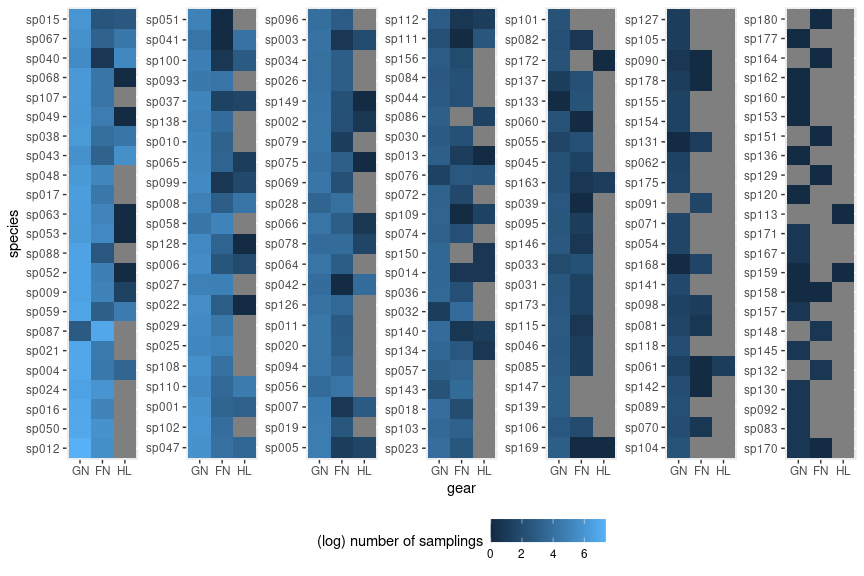
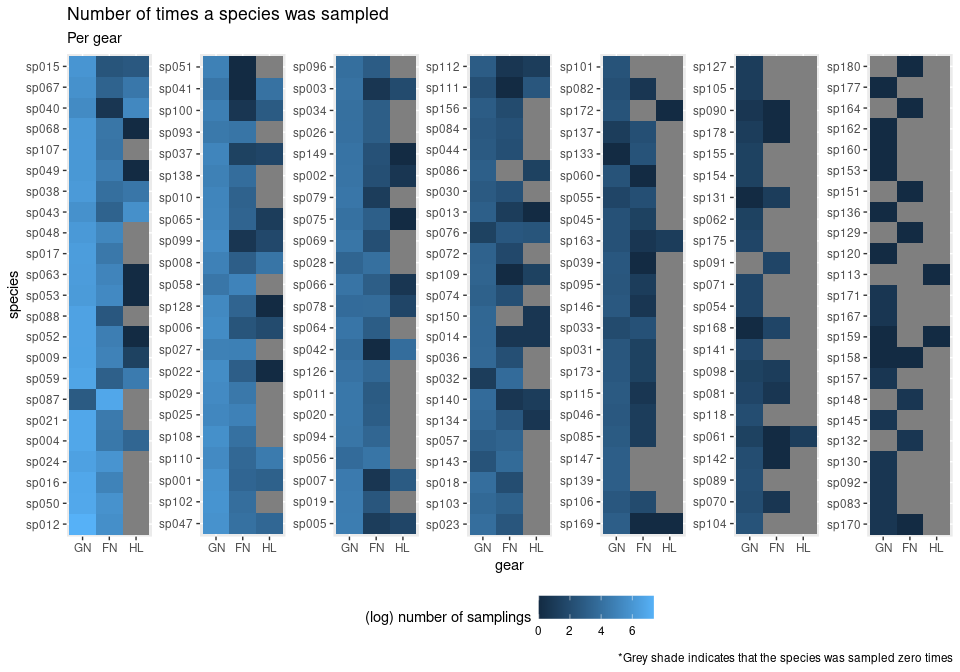
Finish off sampling bias analysis

diff --git a/report/sampling-bias.md b/report/sampling-bias.md
@@ -29,7 +29,10 @@ catch_info %>%
   geom_tile(aes(y = species, x = gear, fill = log(n))) +
   facet_wrap("group",nrow = 1, scales = "free_y") +
   theme(legend.position = "bottom", strip.text = element_blank()) +
-  labs(fill = "(log) number of samplings")
+  labs(fill = "(log) number of samplings", 
+       title = "Number of times a species was sampled", 
+       subtitle = "Per gear", 
+       caption = "*Grey shade indicates that the species was sampled zero times")
 ```
 
 ![](sampling-bias_files/figure-gfm/unnamed-chunk-2-1.png)<!-- -->
@@ -38,7 +41,14 @@ We can see that most species were captured at least once by the gill net
 (GN). Only a handful of species were captured by fike traps (FN) or hook
 lines (HL) alone.
 
-A second consideration is
+A second consideration is the consistency and frequency of sampling. We
+want to better understand whether there are gaps in the data that might
+prove problematic in subsequent analysis.
+
+To inspect that we plot the number of species found in every sampling
+replicate. In the plot below we can see that information. Importantly,
+when no species where found (for example because sampling wasn’t
+performed) we show that as grey.
 
 ``` r
 # Helper function to order factors in plot
@@ -51,13 +61,34 @@ catch_info %>%
   geom_tile(aes(y = refuge, x = replicate, fill = log(n))) +
   facet_grid(gear ~ occasion) +
   theme(legend.position = "bottom", axis.text.x = element_text(angle = 90)) +
-  labs(fill = "(log) number of species")
+  labs(fill = "(log) number of species", 
+       title = "Number of species sampled", 
+       subtitle = "Per site, ocassion, replicate, and fishing method",
+       caption = "*Grey shade indicares no species were found, or no sampling was performed.")
 ```
 
 ![](sampling-bias_files/figure-gfm/unnamed-chunk-3-1.png)<!-- -->
 
+We can see several patterns we would like to further investigate:
+
+  - Six sites have been consistently sampled five times (instead of 8).
+    These are the ones with id 12, 26, 28, 31, 32, and 35. After
+    checking the monitoring protocol it became apparent that these sites
+    correspond to the smallest refuges and therefore less samples were
+    performed.
+  - Data seems to be particularly patchy in occasion 3 (May 2013), but
+    the number of species appears to be generally lower in occasions
+    corresponding to May and August. These samplings correspond to the
+    dry season and lower catches are to be expected.
+  - No species were recorded for site 15 (Boeng Tramses) in occasion 2
+    and 3 (Feb and May 2013).
+
 ## Take aways
 
   - Analyse only gill net data
-
-  -
+  - If feasible, correct for differences in sampling among areas. This
+    could potentially be done be done in a variety of ways depending on
+    the analysis performed: averaging (instead of adding) across
+    replicates, including a covariate of sampling in a statistical model
+    (refuge area or replicate number), or even just taking care when
+    interpreting the results from these sites.
